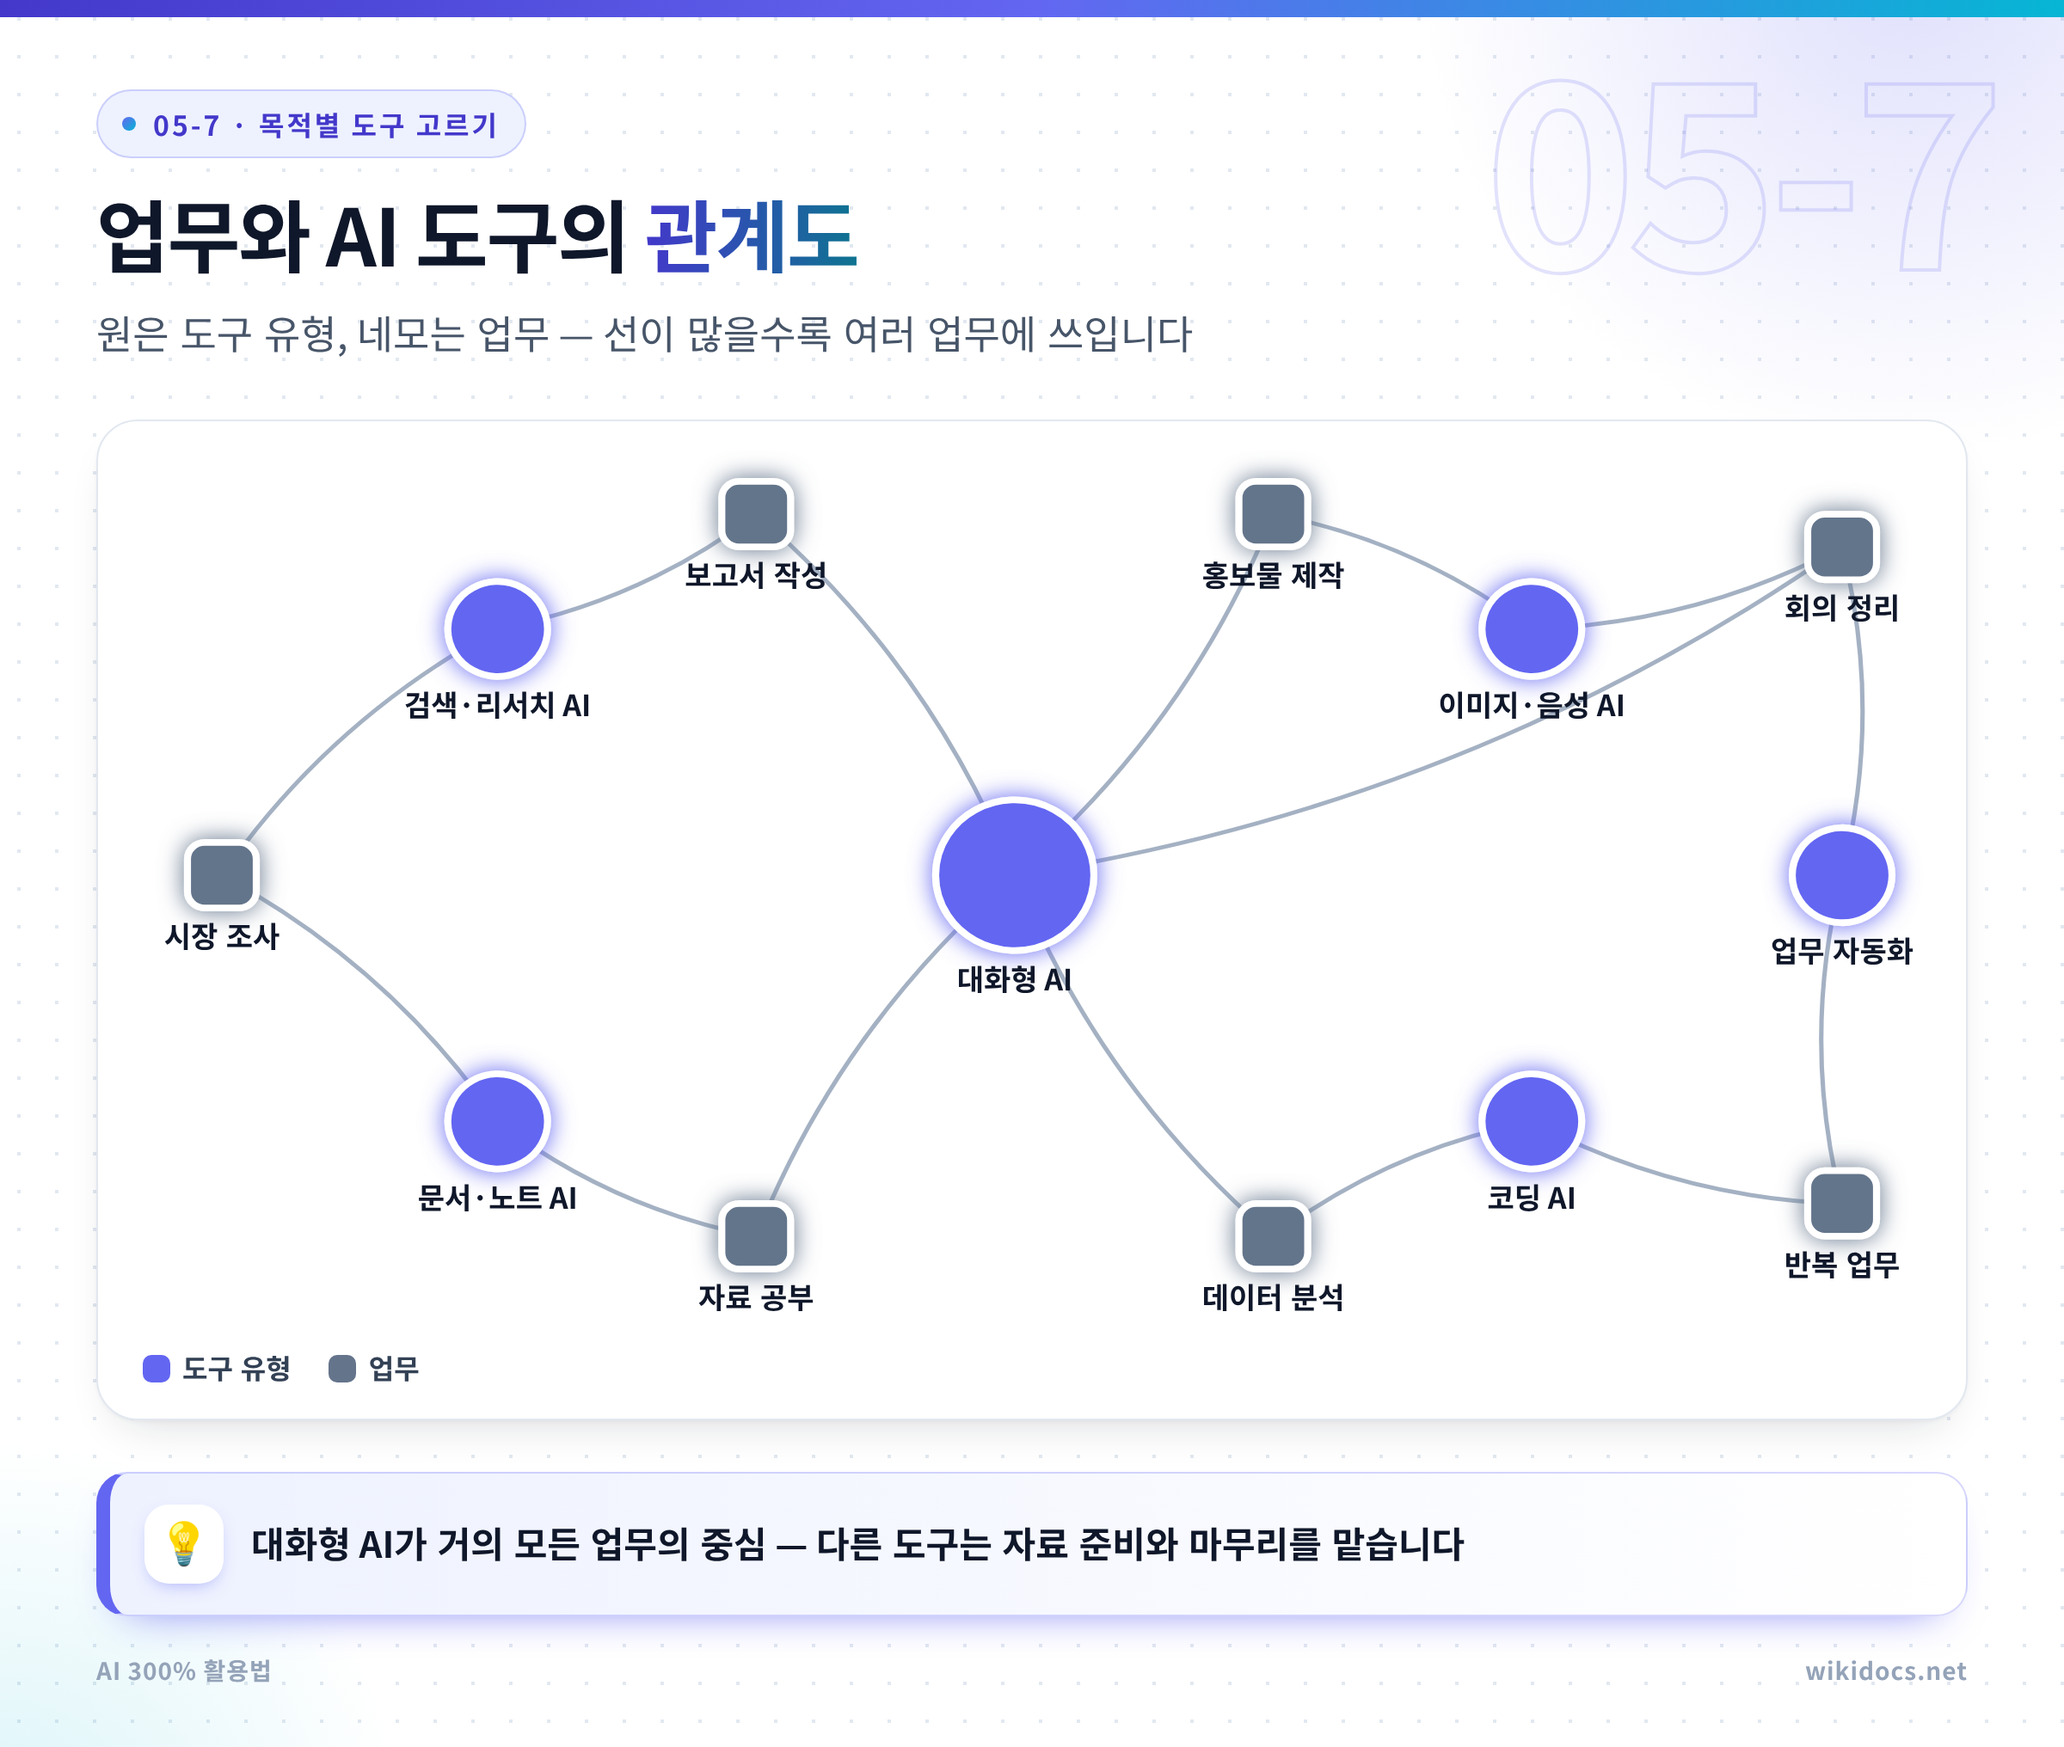
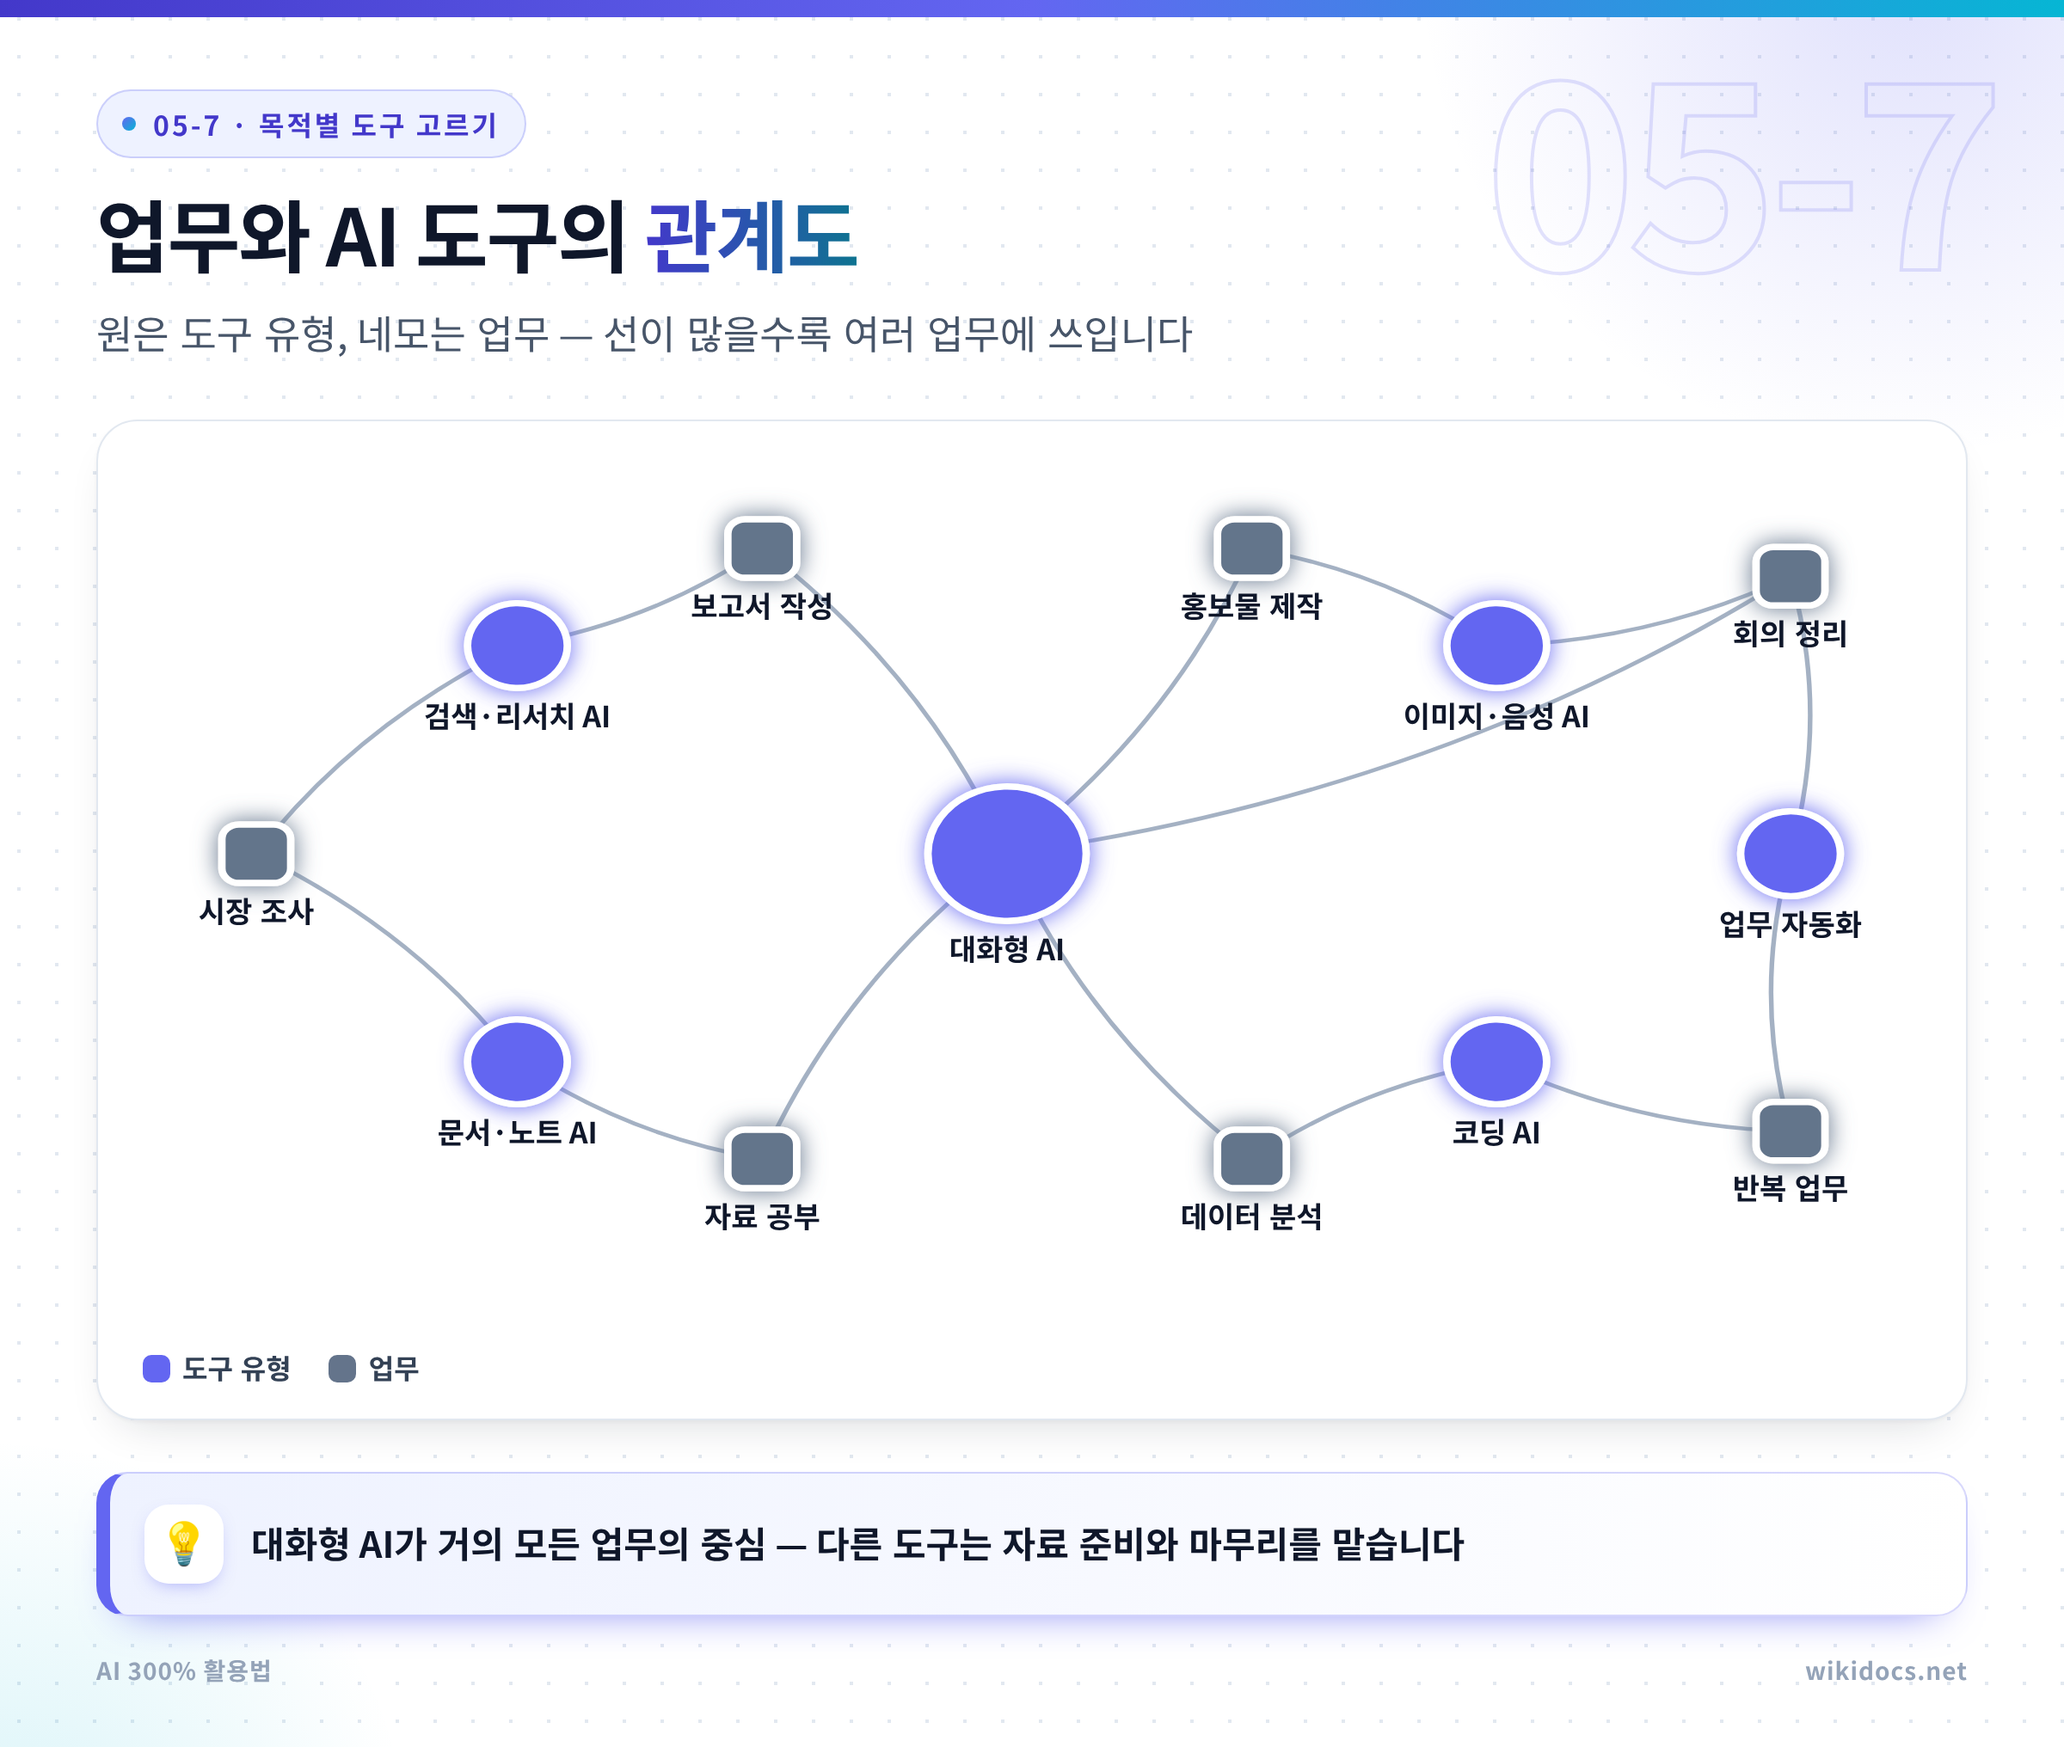
fix: 관계도 여백 조정 (라벨 잘림 방지)
Claude-Session: https://claude.ai/code/session_017K4pTUipCchhp4okmF8AU1

diff --git a/tools/build_diagrams.py b/tools/build_diagrams.py
@@ -425,7 +425,7 @@ def network(d, th):
         links.append(lk)
     layout = "none" if has_xy else d.get("graph_layout", "circular")
     sr = {"type": "graph", "layout": layout, "roam": False, "data": nodes, "links": links,
-          "left": 60, "right": 60, "top": 40, "bottom": 60,
+          "left": 80, "right": 90, "top": 60, "bottom": 105,
           "label": {"show": True, "fontSize": 17, "fontWeight": "bold", "color": "#0F172A"},
           "edgeSymbol": ["none", "arrow"] if d.get("arrows") else ["none", "none"], "edgeSymbolSize": 12,
           "lineStyle": {"color": "#94A3B8", "width": 2.5, "curveness": d.get("curveness", 0.12), "opacity": 0.85}}
